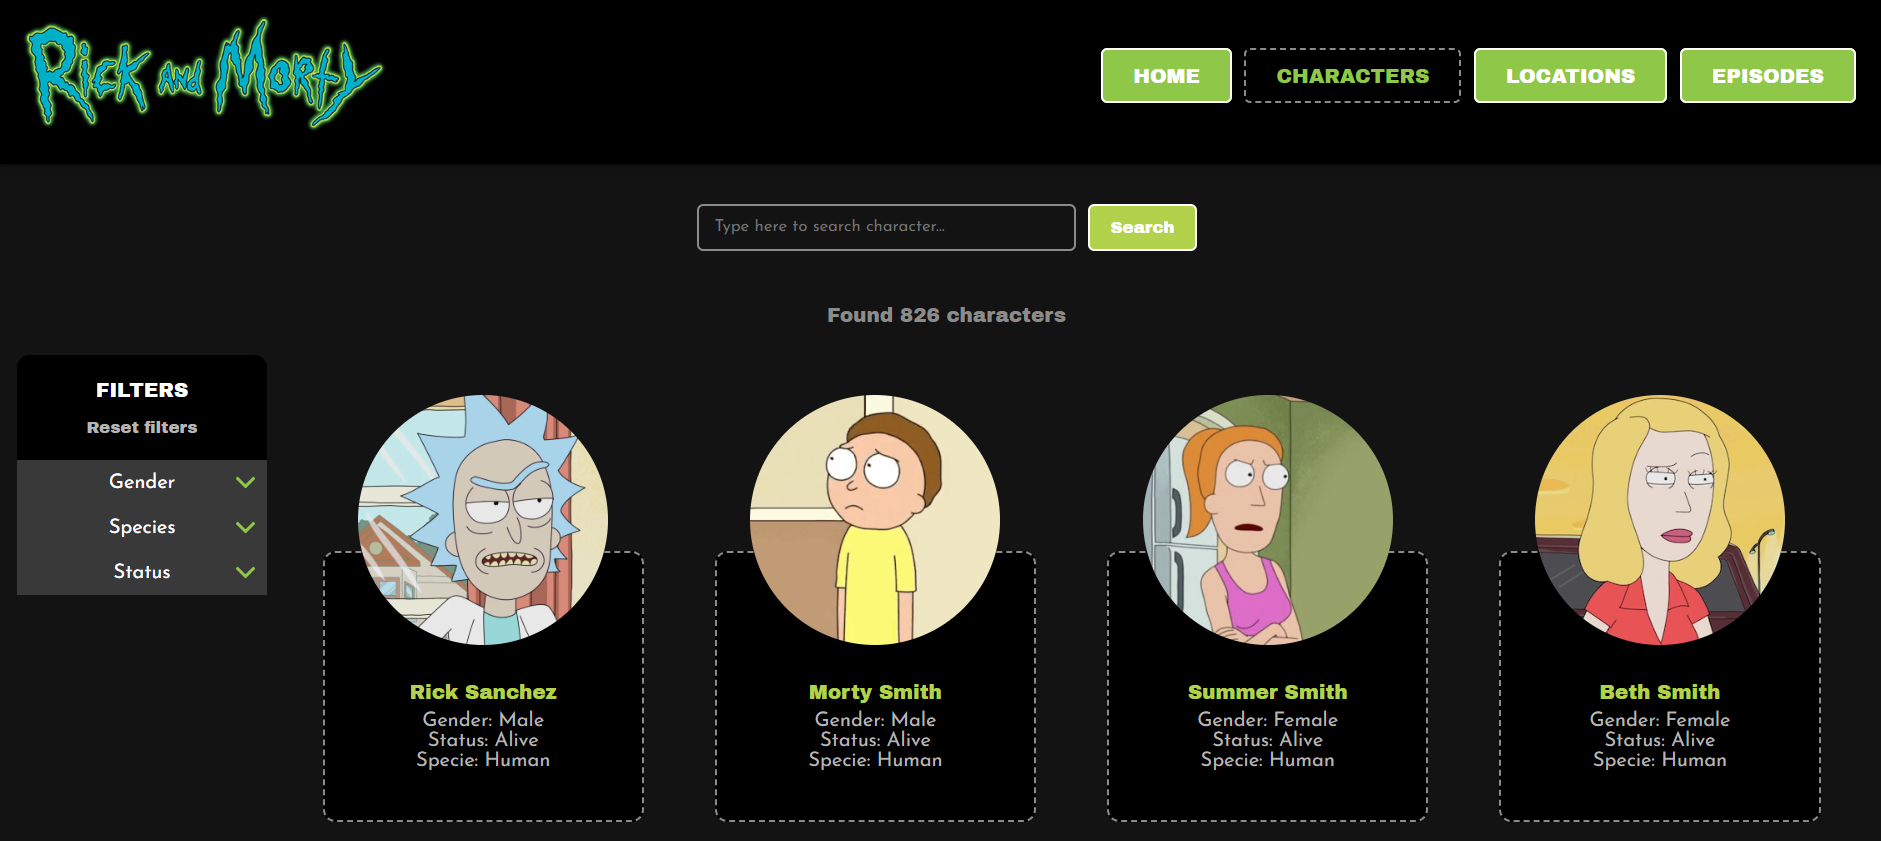
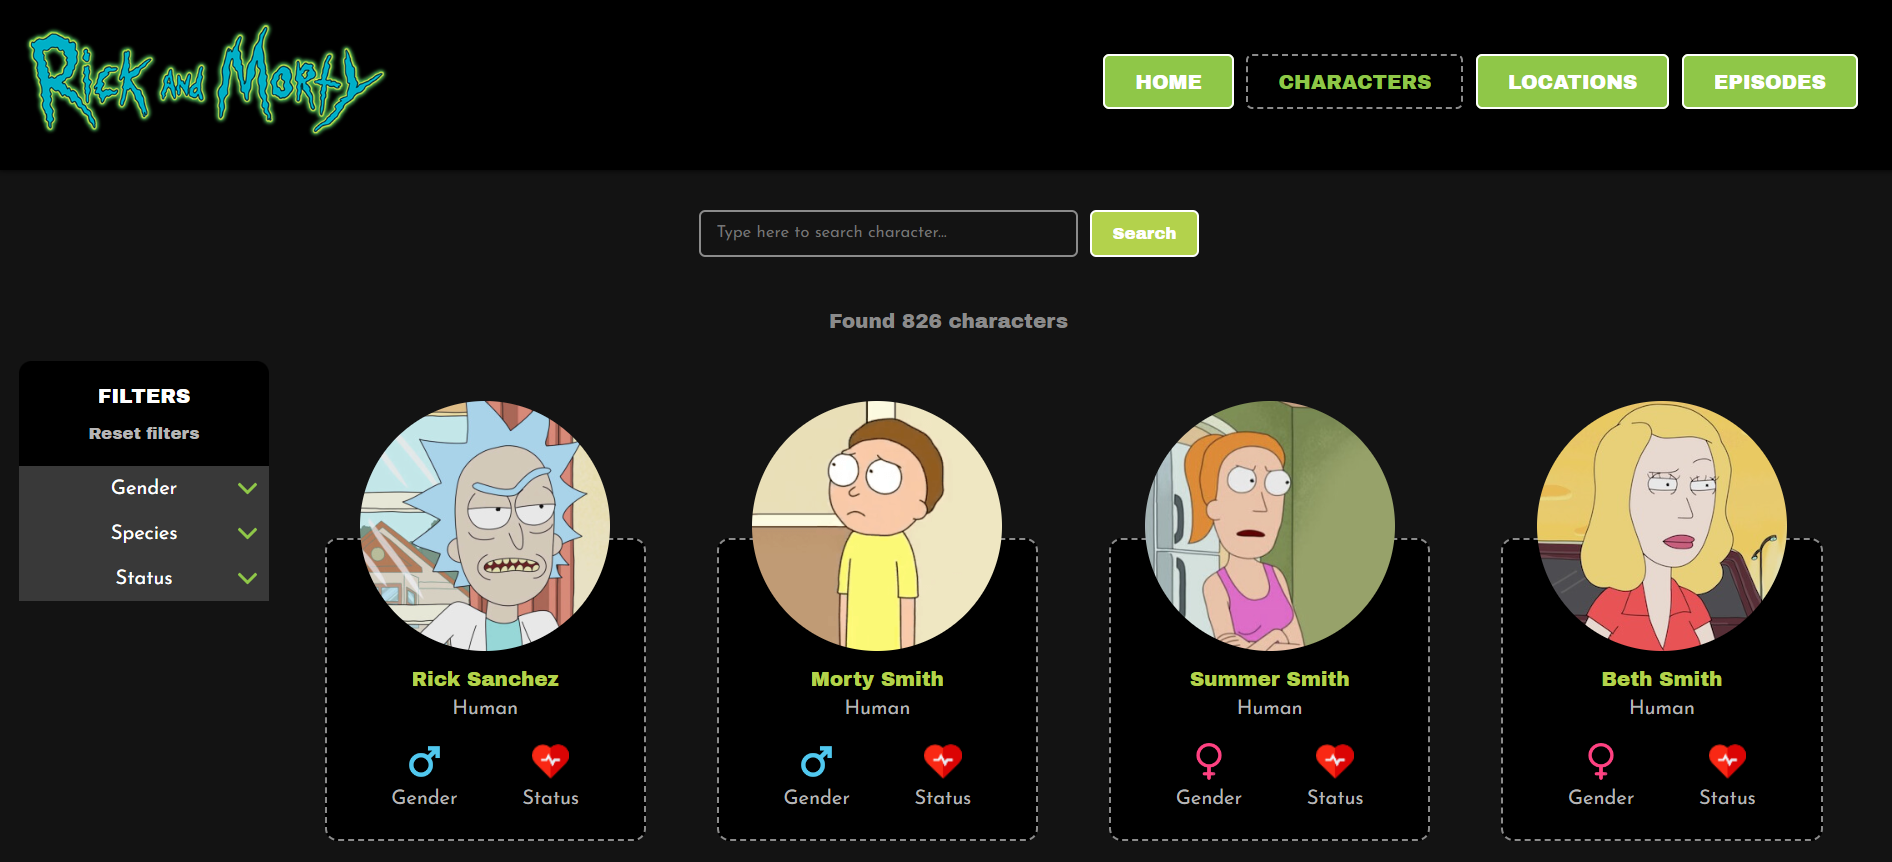
update character card styles

diff --git a/src/pages/CharacterDetailsPage.js b/src/pages/CharacterDetailsPage.js
@@ -2,6 +2,8 @@ import { useEffect, useState } from 'react';
 import { useParams } from 'react-router-dom';
 import BackButton from '../components/UI/BackButton';
 import LoadingSpinner from '../components/UI/LoadingSpinner';
+import GenderBlock from '../components/UI/Blocks/GenderBlock';
+import StatusBlock from '../components/UI/Blocks/StatusBlock';
 import API_URL from '../helpers/apiUrl';
 import styles from './CharacterDetailsPage.module.css';
 
@@ -45,11 +47,13 @@ function CharacterDetailsPage() {
                         />
                         <div className={styles['character-info']}>
                             <div className={styles['character-name']}>{character.name}</div>
-                            <div>Status: {character.status}</div>
-                            <div>Specie: {character.species}</div>
-                            <div>Gender: {character.gender}</div>
-                            <div>Origin: {character.origin.name}</div>
-                            <div>Location: {character.location.name}</div>
+                            <div className={styles['character-specie']}>({character.species})</div>
+                            <div><span className={styles['secondary-text']}>Location:</span> {character.location.name}</div>
+                            <div><span className={styles['secondary-text']}>Origin:</span> {character.origin.name}</div>
+                            <div className={styles['info-flex-wrapper']}>
+                                <GenderBlock gender={character.gender} />
+                                <StatusBlock status={character.status} />
+                            </div>
                         </div>
                     </div>
                     <BackButton />

diff --git a/src/components/CharacterCard.js b/src/components/CharacterCard.js
@@ -1,18 +1,22 @@
 import { Link } from 'react-router-dom';
 import styles from './CharacterCard.module.css';
+import GenderBlock from './UI/Blocks/GenderBlock';
+import StatusBlock from './UI/Blocks/StatusBlock';
 
 function CharacterCard({ character }) {
   return (
     <Link to={`/characters/${character.id}`} end="true">
         <div className={styles['character-card']}>
             <div className={styles.logo}>
-                <img src={character.image} alt={`${character.name}`}/>
+                <img src={character.image} alt={`${character.name}`} className={styles['character-photo']} />
             </div>
             <div className={styles['character-card-info']}>
                 <div className={styles['character-name']}>{character.name}</div>
-                <div>Gender: {character.gender}</div>
-                <div>Status: {character.status}</div>
-                <div>Specie: {character.species}</div>
+                <div>{character.species}</div>
+                <div className={styles['character-card-footer']}>
+                  <GenderBlock gender={character.gender} />
+                  <StatusBlock status={character.status} />
+                </div>
             </div>
         </div>
     </Link>

diff --git a/src/pages/CharacterDetailsPage.module.css b/src/pages/CharacterDetailsPage.module.css
@@ -13,6 +13,7 @@
     display: flex;
     flex-flow: row;
     align-items: center;
+    justify-content: center;
     background-color: #000;
     border-radius: 10px;
     padding: 2rem;
@@ -20,11 +21,16 @@
 }
 
 .character-info {
+    text-align: center;
     margin-left: 2rem;
 }
 
 .character-info > div { 
     margin-bottom: .5rem;
+}
+
+.character-info > div.character-specie {
+    margin-bottom: 30px;
 }
 
 .character-img {
@@ -38,9 +44,25 @@
     font-size: 1.3rem;
 }
 
+.secondary-text {
+    color: #8b8b8b;
+}
+
+.info-flex-wrapper {
+    margin-top: 40px;
+    display: flex;
+    align-items: center;
+    justify-content: space-evenly;
+}
+
 @media (max-width: 720px) {
     .character-details-card {
         flex-flow: column;
+        margin-bottom: 1rem;
+    }
+    
+    .character-info {
+        margin-left: 0;
     }
 }
 
@@ -56,7 +78,7 @@
         border: none;
     }
 
-    .character-details-card img {
+    .character-details-card .character-img {
         width: 180px;
         height: 180px;
     }

diff --git a/src/components/CharacterCard.module.css b/src/components/CharacterCard.module.css
@@ -4,7 +4,7 @@
     padding: 1rem;
     margin: 1rem;
     width: 225px;
-    height: 310px;
+    height: 320px;
     transition: all .2s ease-in-out;
 }
 
@@ -21,7 +21,7 @@
     overflow: hidden;
 }
 
-.character-card .logo img {
+.character-card .logo .character-photo {
     position: absolute;
     width: 200px;
     height: 200px;
@@ -38,7 +38,7 @@
     bottom: 0;
     left: 0;
     right: 0;
-    top: 125px;
+    top: 110px;
     background-color: #000;
     border-radius: 10px;
 }
@@ -49,11 +49,17 @@
     margin-bottom: 5px;
 }
 
+.character-card-footer {
+    margin: 1rem 0;
+    display: flex;
+    justify-content: space-evenly;
+}
+
 .character-card:hover {
     transform: translateY(-15px);
 }
 
-.character-card:hover img {
+.character-card:hover .character-photo {
     transform: scale(1.1);
 }
 

diff --git a/src/components/UI/Blocks/GenderBlock.js b/src/components/UI/Blocks/GenderBlock.js
@@ -1,0 +1,27 @@
+import styles from './Block.module.css';
+import femaleIcon from '../../../assets/gender-icons/femenine.png';
+import maleIcon from '../../../assets/gender-icons/male.png';
+import genderlessIcon from '../../../assets/gender-icons/icons8-neutral.png';
+import questionMarkIcon from '../../../assets/question-mark.png';
+
+function GenderBlock({ gender }) {
+  let genderIcon;
+
+  if(gender === 'Female')
+    genderIcon = femaleIcon;
+  else if(gender === 'Male')
+    genderIcon = maleIcon;
+  else if(gender === 'Genderless')
+    genderIcon = genderlessIcon;
+  else
+    genderIcon = questionMarkIcon;
+
+  return (
+    <div className={styles.block}>
+      <img src={genderIcon} alt={gender} />
+      <div>Gender</div>
+    </div>
+  );
+}
+
+export default GenderBlock;

diff --git a/src/components/UI/Blocks/StatusBlock.js b/src/components/UI/Blocks/StatusBlock.js
@@ -1,0 +1,24 @@
+import styles from './Block.module.css';
+import deadIcon from '../../../assets/status-icons/tombstone.png';
+import aliveIcon from '../../../assets/status-icons/heartbeat.png';
+import questionMarkIcon from '../../../assets/question-mark.png';
+
+function StatusBlock({ status }) {
+  let statusIcon;
+
+  if(status === 'Dead')
+    statusIcon = deadIcon;
+  else if(status === 'Alive')
+    statusIcon = aliveIcon;
+  else
+    statusIcon = questionMarkIcon;
+
+  return (
+    <div className={styles.block}>
+      <img src={statusIcon} alt={status} />
+      <div>Status</div>
+    </div>
+  );
+}
+
+export default StatusBlock;

diff --git a/src/components/UI/Blocks/Block.module.css b/src/components/UI/Blocks/Block.module.css
@@ -1,0 +1,5 @@
+.block > img {
+    width: 30px;
+    height: 30px;
+    padding: .2rem;
+}
